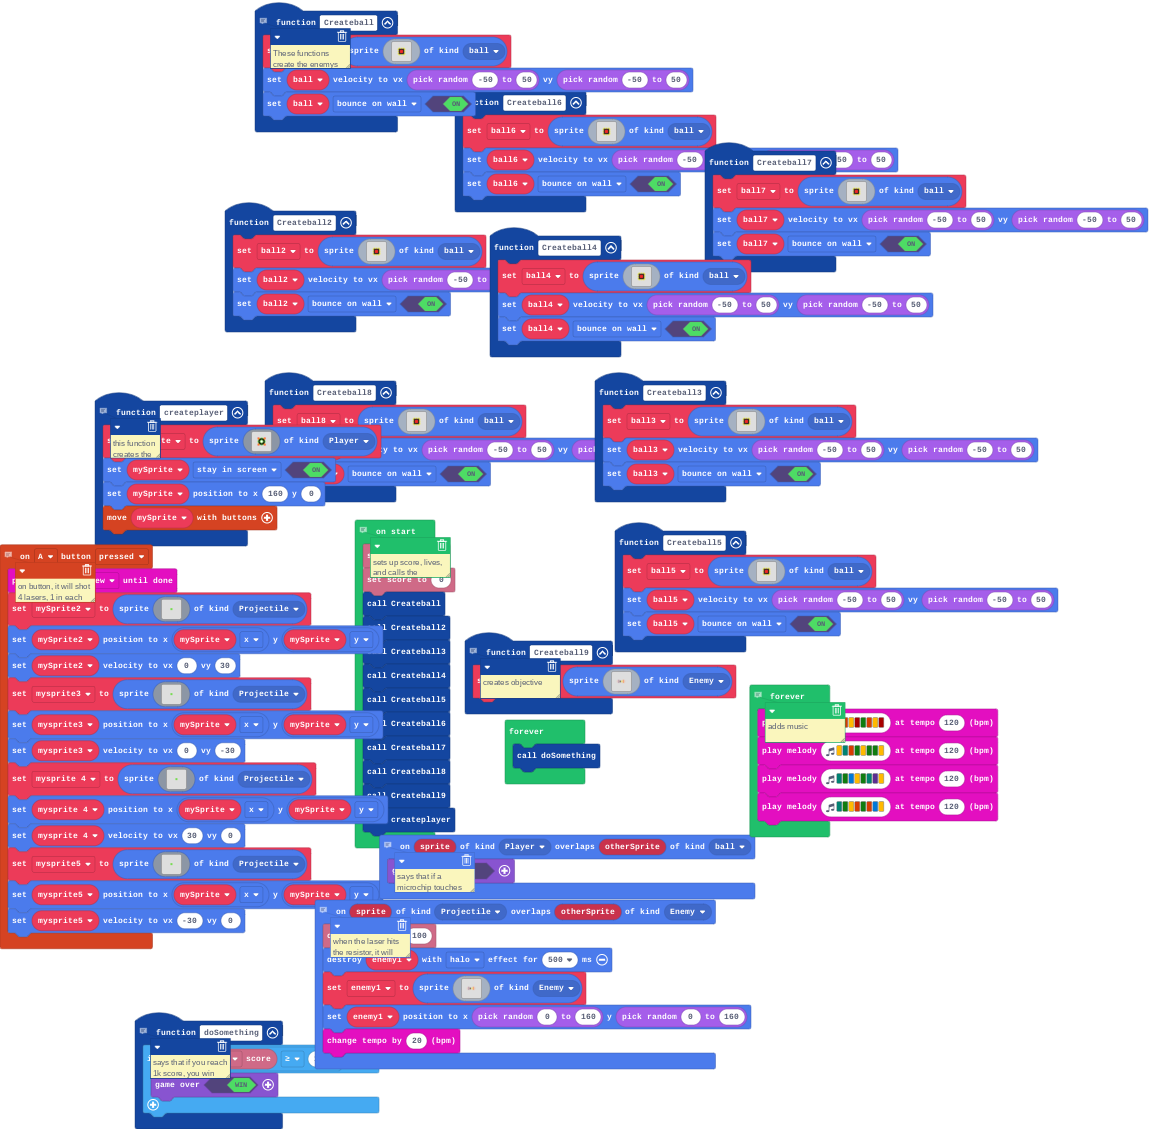
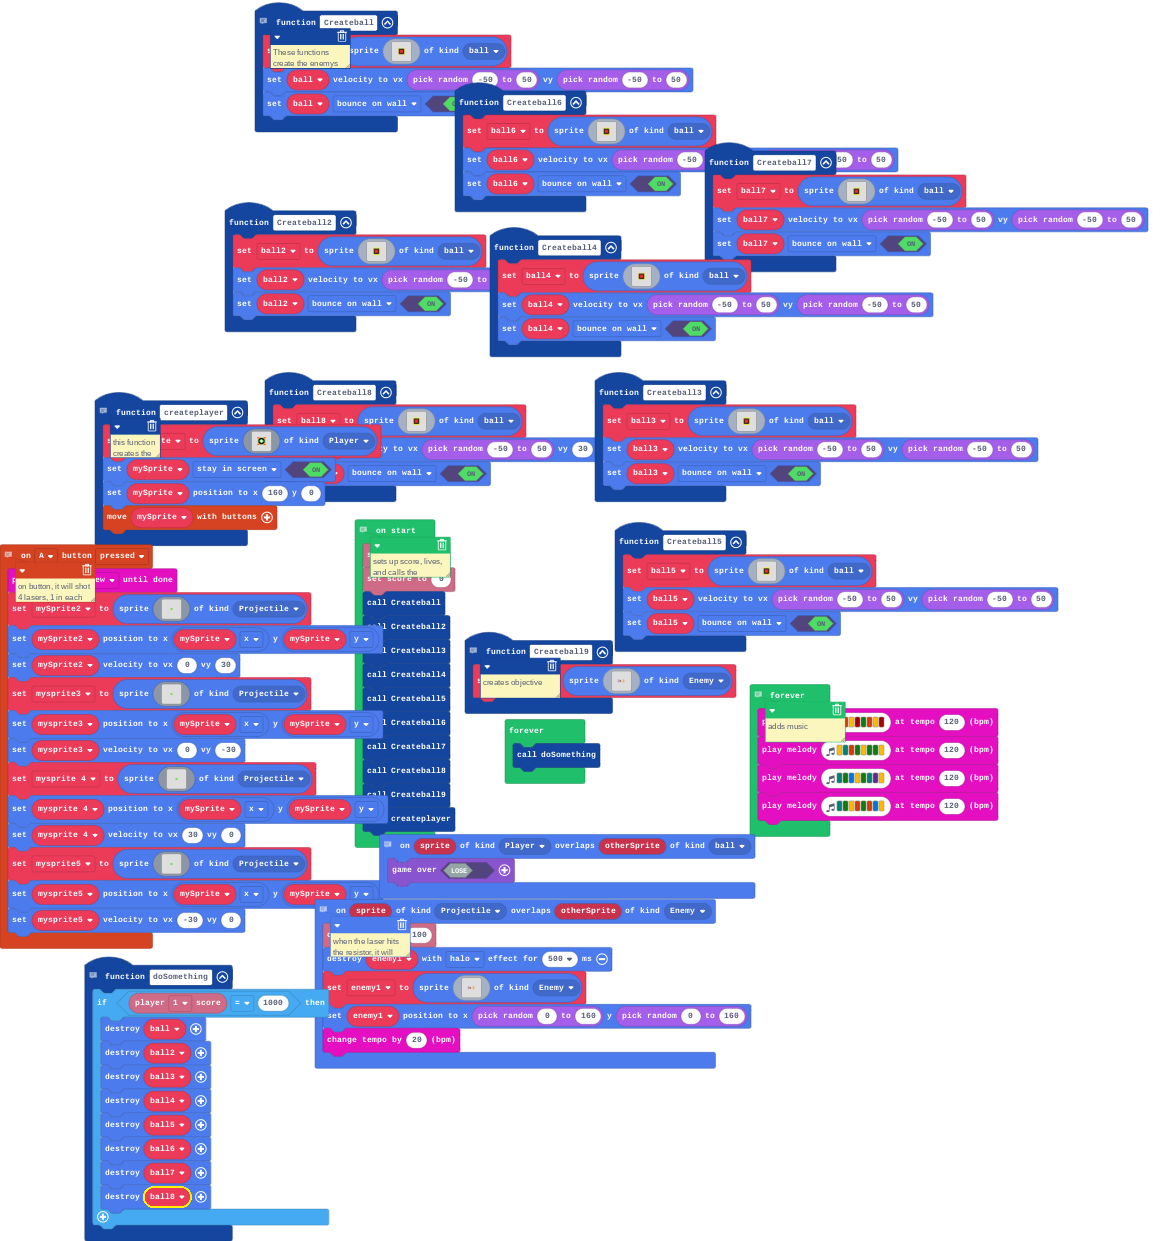
Update pxt.json, main.blocks, main.ts

diff --git a/main.ts b/main.ts
@@ -210,7 +210,7 @@ function Createball8 () {
         . . . . . . . . . . . . . . . 
         . . . . . . . . . . . . . . . 
         `, SpriteKind.ball)
-    ball8.setVelocity(randint(-50, 50), randint(-50, 50))
+    ball8.setVelocity(randint(-50, 50), 30)
     ball8.setFlag(SpriteFlag.BounceOnWall, true)
 }
 // this function creates the player
@@ -239,8 +239,15 @@ function createplayer () {
 }
 // says that if you reach 1k score, you win
 function doSomething () {
-    if (info.player1.score() >= 1000) {
-        game.over(true)
+    if (info.player1.score() == 1000) {
+        ball.destroy()
+        ball2.destroy()
+        ball3.destroy()
+        ball4.destroy()
+        ball5.destroy()
+        ball6.destroy()
+        ball7.destroy()
+        ball8.destroy()
     }
 }
 function Createball6 () {
@@ -336,9 +343,9 @@ sprites.onOverlap(SpriteKind.Player, SpriteKind.ball, function (sprite, otherSpr
     game.over(false)
 })
 // sets up score, lives, and calls the functions
-let ball2: Sprite = null
-let ball3: Sprite = null
 let ball6: Sprite = null
+let ball3: Sprite = null
+let ball2: Sprite = null
 let ball8: Sprite = null
 let ball5: Sprite = null
 let mysprite5: Sprite = null
